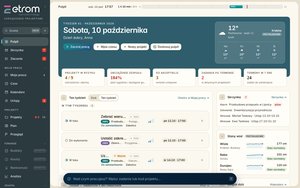
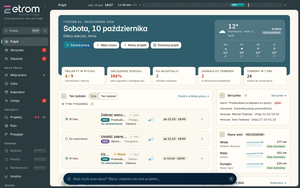
ETROM jako pierwszy i domyślny styl; panel boczny i pasek górny jako jedna ramka we wszystkich stylach
Claude-Session: https://claude.ai/code/session_01K4hy1AbaUhrYWgauQ4MMbV

diff --git a/styles/aurora.css b/styles/aurora.css
@@ -64,22 +64,14 @@
 
 /* ---------- Tło okna i arkusz ---------- */
 body, .app { background: var(--au-bg); background-attachment: fixed; }
-.sheet {
-  background:
-    radial-gradient(52rem 15rem at 92% -5rem, light-dark(oklch(.82 calc(.09 * var(--k)) var(--au-h1) / .24), oklch(.5 calc(.14 * var(--k)) var(--au-h1) / .16)), transparent 70%),
-    radial-gradient(40rem 14rem at 4% -4rem, light-dark(oklch(.84 calc(.07 * var(--k)) var(--au-h2) / .22), oklch(.5 calc(.13 * var(--k)) var(--au-h2) / .15)), transparent 70%),
-    var(--sheet);
-}
 
 /* ---------- Panel boczny ---------- */
-.sidebar {
+.sidebar, .topbar {
   --ink: #fff; --ink-2: rgb(255 255 255 / .88); --ink-3: rgb(255 255 255 / .66); --ink-4: rgb(255 255 255 / .48);
   --sheet: oklch(1 0 0 / .15); --hover: oklch(1 0 0 / .09); --wash: oklch(1 0 0 / .08); --line: oklch(1 0 0 / .16); --line-strong: oklch(1 0 0 / .3);
   --alarm-ink: oklch(.8 .16 25); --warn-ink: oklch(.86 .15 85);
   --elev-lift: inset 0 1px 0 rgb(255 255 255 / .28), 0 8px 18px -8px rgb(0 0 0 / .6);
   color: #fff;
-  /* spokojna, głęboka kolumna: plama aurory z tła nie prześwituje przez logo i wyszukiwarkę */
-  background: linear-gradient(180deg, oklch(.2 calc(.055 * var(--k)) var(--au-bh) / .9), oklch(.145 calc(.045 * var(--k)) var(--au-bh) / .94));
 }
 .sidebar .nav__item[aria-current="page"] {
   background: oklch(1 0 0 / .13);
@@ -110,7 +102,7 @@ body, .app { background: var(--au-bg); background-attachment: fixed; }
     radial-gradient(44rem 26rem at 105% -8%, light-dark(oklch(.88 calc(.08 * var(--k)) var(--au-h3) / .6), oklch(.55 calc(.13 * var(--k)) var(--au-h3) / .4)), transparent 62%),
     var(--au-base);
 }
-:root:is([data-palette="sky"],[data-palette="mint"],[data-palette="peach"],[data-palette="lilac"],[data-palette="rose"]) .sidebar {
+:root:is([data-palette="sky"],[data-palette="mint"],[data-palette="peach"],[data-palette="lilac"],[data-palette="rose"]) :is(.sidebar, .topbar) {
   --ink: light-dark(oklch(.27 .05 var(--au-bh)), #fff); --ink-2: light-dark(oklch(.36 .05 var(--au-bh)), rgb(255 255 255 / .88));
   --ink-3: light-dark(oklch(.45 .045 var(--au-bh)), rgb(255 255 255 / .66)); --ink-4: light-dark(oklch(.55 .04 var(--au-bh)), rgb(255 255 255 / .48));
   --sheet: light-dark(oklch(1 0 0 / .7), oklch(1 0 0 / .15)); --hover: light-dark(oklch(1 0 0 / .6), oklch(1 0 0 / .09)); --wash: light-dark(oklch(1 0 0 / .5), oklch(1 0 0 / .08));
@@ -118,8 +110,8 @@ body, .app { background: var(--au-bg); background-attachment: fixed; }
   --alarm-ink: light-dark(oklch(.5 .2 25), oklch(.8 .16 25)); --warn-ink: light-dark(oklch(.5 .13 70), oklch(.86 .15 85));
   --elev-lift: 0 1px 2px oklch(.3 .05 var(--au-bh) / .14);
   color: light-dark(oklch(.27 .05 var(--au-bh)), #fff);
-  background: linear-gradient(180deg, light-dark(oklch(1 0 0 / .62), oklch(.2 calc(.055 * var(--k)) var(--au-bh) / .9)), light-dark(oklch(1 0 0 / .4), oklch(.145 calc(.045 * var(--k)) var(--au-bh) / .94)));
 }
+:root:is([data-palette="sky"],[data-palette="mint"],[data-palette="peach"],[data-palette="lilac"],[data-palette="rose"]) { --frame: linear-gradient(180deg, light-dark(oklch(1 0 0 / .62), oklch(.2 calc(.055 * var(--k)) var(--au-bh) / .9)), light-dark(oklch(1 0 0 / .4), oklch(.145 calc(.045 * var(--k)) var(--au-bh) / .94))); }
 :root:is([data-palette="sky"],[data-palette="mint"],[data-palette="peach"],[data-palette="lilac"],[data-palette="rose"]) .sidebar .nav__item[aria-current="page"],
 :root:is([data-palette="sky"],[data-palette="mint"],[data-palette="peach"],[data-palette="lilac"],[data-palette="rose"]) .sidebar .nav__item--project[aria-current="page"] {
   background: light-dark(oklch(1 0 0 / .9), oklch(1 0 0 / .13));
@@ -143,6 +135,24 @@ body, .app { background: var(--au-bg); background-attachment: fixed; }
     light-dark(oklch(calc(.5 - .04 * var(--ctr)) calc(.14 * var(--k)) var(--au-h2)), oklch(calc(.2 - .03 * var(--ctr)) calc(.05 * var(--k)) var(--au-bh)));
 }
 @media (max-width: 56rem) { .sidebar, :root:is([data-palette="sky"],[data-palette="mint"],[data-palette="peach"],[data-palette="lilac"],[data-palette="rose"]) .sidebar { background: var(--au-bg); } }
+
+/* ---------- Ramka: panel boczny i pasek górny to jedna powierzchnia ----------
+   --frame maluje tło całego okna (panel, pasek górny i wąskie marginesy); arkusz treści leży na niej jako zaokrąglona karta. */
+:root { --frame: linear-gradient(180deg, oklch(.2 calc(.055 * var(--k)) var(--au-bh) / .9), oklch(.145 calc(.045 * var(--k)) var(--au-bh) / .94)); }
+.app { background: var(--frame), var(--au-bg); background-attachment: fixed; }
+.sidebar { background: none; }
+.topbar { background: none; box-shadow: none; }
+.sheet { background: none; box-shadow: none; margin: 0 var(--space-2) var(--space-2) 0; border-radius: 0; }
+.sheet.is-scrolled .topbar { box-shadow: none; }
+.sheet__scroll {
+  border-radius: var(--radius-lg);
+  box-shadow: var(--elev-sheet);
+  background:
+    radial-gradient(52rem 15rem at 92% -5rem, light-dark(oklch(.82 calc(.09 * var(--k)) var(--au-h1) / .24), oklch(.5 calc(.14 * var(--k)) var(--au-h1) / .16)), transparent 70%),
+    radial-gradient(40rem 14rem at 4% -4rem, light-dark(oklch(.84 calc(.07 * var(--k)) var(--au-h2) / .22), oklch(.5 calc(.13 * var(--k)) var(--au-h2) / .15)), transparent 70%),
+    var(--sheet);
+}
+.topbar { --topbar-ink: #fff; }
 
 /* ---------- Przyciski, karty, zakładki ---------- */
 .btn--primary { background: var(--grad-aurora); color: #fff; box-shadow: inset 0 1px 0 rgb(255 255 255 / var(--hl)), inset 0 -1px 0 rgb(0 0 0 / .18), 0 10px 22px -10px oklch(.5 calc(.13 * var(--k)) var(--au-h2) / calc(.7 * var(--hdr))); }

diff --git a/tests/browser/smoke.js b/tests/browser/smoke.js
@@ -578,6 +578,10 @@ async function main() {
     const gridCheck = await evaluate('var c = document.querySelectorAll(".pcard"); return { cols: getComputedStyle(document.querySelector(".pcard-grid")).gridTemplateColumns.split(" ").length, w0: c[0].getBoundingClientRect().width, vw: document.documentElement.clientWidth };');
     check('widok kart: kafle układają się w kolumny (nie jeden na całą szerokość)', gridCheck.cols >= 2 && gridCheck.w0 < gridCheck.vw * 0.6, JSON.stringify(gridCheck));
 
+    check('domyślny styl to ETROM: jasny schemat i ciemny panel boczny; dalsze testy motywów działają w stylu Aurora',
+      await evaluate('return document.documentElement.getAttribute("data-look") === "etrom" && document.documentElement.getAttribute("data-theme") === "light" && window.ETROM.Prefs.LOOKS[0].value === "etrom";'));
+    await evaluate('window.ETROM.app.actions.setPref({ look: "aurora" }); return true;');
+    await sleep(200);
     await click('#action-settings');
     await sleep(150);
     await evaluate('document.querySelector(\'.settings .segmented__btn[data-value="dark"]\').click(); return true;');
@@ -2219,7 +2223,7 @@ async function main() {
     await click('[data-fk="look-style-etrom"]');
     await sleep(300);
     check('styl ETROM: jasne pole pracy, ciemny panel boczny z dużym logo i podpisem, wymuszony jasny schemat',
-      (await state('s.prefs.look')) === 'etrom' && await evaluate('const sb = document.querySelector(".sidebar"); const lg = document.querySelector(".workspace .logo"); return document.documentElement.getAttribute("data-look") === "etrom" && document.documentElement.getAttribute("data-theme") === "light" && getComputedStyle(document.querySelector(".sheet")).backgroundColor === "rgb(255, 255, 255)" && /rgb\\(16, 20, 23\\)/.test(getComputedStyle(sb).backgroundImage) && lg.getBoundingClientRect().height >= 48 && !!document.querySelector(".brand-tag");'));
+      (await state('s.prefs.look')) === 'etrom' && await evaluate('const sb = document.querySelector(".sidebar"); const lg = document.querySelector(".workspace .logo"); return document.documentElement.getAttribute("data-look") === "etrom" && document.documentElement.getAttribute("data-theme") === "light" && getComputedStyle(document.querySelector(".sheet__scroll")).backgroundColor === "rgb(255, 255, 255)" && /rgb\\(16, 20, 23\\)/.test(getComputedStyle(document.querySelector(".app")).backgroundImage) && lg.getBoundingClientRect().height >= 48 && !!document.querySelector(".brand-tag");'));
     await click('[data-fk="look-style-oled"]');
     await sleep(300);
     check('styl OLED Black: czarne tło, wymuszony ciemny schemat, palety wyłączone',
@@ -2233,7 +2237,7 @@ async function main() {
     await click('[data-fk="look-style-paper"]');
     await sleep(300);
     check('styl Papier: wymuszony jasny schemat, ciepłe tło arkusza i matowy nagłówek ekranu',
-      await evaluate('return document.documentElement.getAttribute("data-theme") === "light" && getComputedStyle(document.querySelector(".sheet")).backgroundColor === "rgb(251, 248, 240)" && getComputedStyle(document.querySelector("#view-settings .page-header")).backgroundColor === "rgb(47, 93, 107)";'));
+      await evaluate('return document.documentElement.getAttribute("data-theme") === "light" && getComputedStyle(document.querySelector(".sheet__scroll")).backgroundColor === "rgb(251, 248, 240)" && getComputedStyle(document.querySelector("#view-settings .page-header")).backgroundColor === "rgb(47, 93, 107)";'));
     await click('[data-fk="look-style-aurora"]');
     await sleep(300);
     check('powrót do stylu Aurora zdejmuje atrybut stylu, a schemat wraca do wyboru z Motywu (tu: ciemny)',

diff --git a/styles/looks.css b/styles/looks.css
@@ -15,16 +15,17 @@ html[data-look="etrom"] {
   --ink: #0b0d0f; --ink-2: #323d44; --ink-3: #566873;
   --brand: #dc5799; --au-bg: #f3f5f6; --au-base: #f3f5f6;
 }
-html[data-look="etrom"] .sidebar {
+html[data-look="etrom"] { --frame: linear-gradient(180deg, #101417, #080a0c); }
+html[data-look="etrom"] :is(.sidebar, .topbar) {
   --ink: #fff; --ink-2: #e6ecef; --ink-3: #aab9c1; --ink-4: #8195a0;
   --line: #2a3238; --line-strong: #3a444c; --hover: #1d252b; --pressed: #26313a; --wash: #161d22; --wash-2: #1f282e; --raised: #1f282e; --sheet: #161d22;
-  background: linear-gradient(180deg, #101417, #080a0c); box-shadow: none; color: #fff;
+  box-shadow: none; color: #fff;
 }
 html[data-look="etrom"] .sidebar .logo__ink { background-color: #fff; }
 html[data-look="etrom"] .sidebar .workspace { border-bottom: 3px solid var(--brand); background: rgb(255 255 255 / .04); border-radius: 0; }
 html[data-look="etrom"] .sidebar .workspace:hover { background: rgb(255 255 255 / .08); }
 html[data-look="etrom"] .sidebar .nav__item[aria-current="page"] { background: rgb(255 255 255 / .09); box-shadow: inset 3px 0 0 var(--brand); }
-html[data-look="etrom"] .sheet { background: #fff; box-shadow: inset 0 0 0 1px #dbe2e6; }
+html[data-look="etrom"] .sheet__scroll { background: #fff; box-shadow: none; }
 html[data-look="etrom"] .db-hero, html[data-look="etrom"] .page-header {
   position: relative; overflow: hidden; color: #fff; box-shadow: none;
   background: radial-gradient(34rem 16rem at 100% 0%, rgb(220 87 153 / .5), transparent 70%), linear-gradient(115deg, #1a2126, #0e1215);
@@ -46,9 +47,10 @@ html[data-look="oled"] {
   --canvas: #000; --sheet: #000; --raised: #0c0c0e; --wash: #08090a; --wash-2: #111214; --hover: #101113; --pressed: #18191c;
   --line: #1a1b1e; --line-strong: #2a2c30; --au-bg: #000; --au-base: #000;
 }
-html[data-look="oled"] body, html[data-look="oled"] .app { background: #000; }
-html[data-look="oled"] .sidebar { background: #000; box-shadow: inset -1px 0 0 #17181a; }
-html[data-look="oled"] .sheet { background: #000; box-shadow: inset 0 0 0 1px #17181a; }
+html[data-look="oled"] body { background: #000; }
+html[data-look="oled"] { --frame: linear-gradient(#000, #000); }
+html[data-look="oled"] .sidebar { box-shadow: inset -1px 0 0 #17181a; }
+html[data-look="oled"] .sheet__scroll { background: #000; box-shadow: inset 0 0 0 1px #17181a; }
 html[data-look="oled"] .db-hero {
   background: radial-gradient(60% 120% at 100% 0%, oklch(.45 calc(.15 * var(--k)) var(--au-h1) / .55), transparent 70%), #000;
   box-shadow: inset 0 0 0 1px oklch(.7 calc(.14 * var(--k)) var(--au-h1) / .55), 0 0 calc(48px * var(--hdr)) -10px oklch(.65 calc(.16 * var(--k)) var(--au-h1) / .55);
@@ -124,8 +126,8 @@ html[data-look="paper"] {
   --flow: #2f6f86; --flow-ink: #245a6d; --flow-wash: #e1eef1; --brand: #c4457f; --warn: #a56000;
   --au-bg: #e7dfcf; --au-base: #e7dfcf; --hdr: 0;
 }
-html[data-look="paper"] .sidebar { background: #2b3a3f; box-shadow: none; }
-html[data-look="paper"] .sheet { background: #fbf8f0; box-shadow: 0 1px 0 #d6ccb4, 0 0 0 1px #d9cfb8; }
+html[data-look="paper"] { --frame: linear-gradient(#2b3a3f, #2b3a3f); }
+html[data-look="paper"] .sheet__scroll { background: #fbf8f0; box-shadow: 0 0 0 1px #d9cfb8; }
 html[data-look="paper"] .db-hero { background: #2f5d6b; box-shadow: none; }
 html[data-look="paper"] .db-tile, html[data-look="paper"] .db-card { background: #fffdf8; box-shadow: inset 0 0 0 1px #e1d8c3; }
 html[data-look="paper"] .db-tile__v, html[data-look="paper"] .ts-stat__v { font-family: Georgia, 'Times New Roman', serif; }

diff --git a/tests/prefs.test.js b/tests/prefs.test.js
@@ -13,7 +13,7 @@ function fakeBackend(initial) {
   };
 }
 
-const BASE = { theme: 'system', view: 'list', accent: 'standard', hiddenColumns: [], groupBy: 'none', density: 'comfortable', taskView: 'list', detailsOpen: true, projectView: 'all', customViews: [], sidebarCollapsed: false, railCollapsed: false, collapsedRails: ['time', 'mywork', 'mycases', 'feed'], palette: 'ocean', look: 'aurora', oledGuard: false, hdr: true, tilesFull: false, colorBy: 'number', vivid: 100, contrast: 50, dayTarget: 480, dayEnd: '17:00', pinned: [], recent: [], me: null, snoozed: {}, progressMethod: 'auto', workingWeight: 50, forecastWarn: 10, forecastAlarm: 25, reservePct: 15, minProgress: 10, hourlyCost: 0, cal: { view: 'month', scope: '', hiddenPeople: [], hiddenProjects: [], hiddenKinds: [], rail: 'none', layer: 'all' }, dash: { tiles: [], collapsed: [] } };
+const BASE = { theme: 'system', view: 'list', accent: 'standard', hiddenColumns: [], groupBy: 'none', density: 'comfortable', taskView: 'list', detailsOpen: true, projectView: 'all', customViews: [], sidebarCollapsed: false, railCollapsed: false, collapsedRails: ['time', 'mywork', 'mycases', 'feed'], palette: 'ocean', look: 'etrom', oledGuard: false, hdr: true, tilesFull: false, colorBy: 'number', vivid: 100, contrast: 50, dayTarget: 480, dayEnd: '17:00', pinned: [], recent: [], me: null, snoozed: {}, progressMethod: 'auto', workingWeight: 50, forecastWarn: 10, forecastAlarm: 25, reservePct: 15, minProgress: 10, hourlyCost: 0, cal: { view: 'month', scope: '', hiddenPeople: [], hiddenProjects: [], hiddenKinds: [], rail: 'none', layer: 'all' }, dash: { tiles: [], collapsed: [] } };
 const withBase = (patch) => Object.assign({}, BASE, patch);
 
 test('domyślnie motyw idzie za systemem, a projekty pokazują się jako lista', () => {
@@ -190,13 +190,14 @@ test('ustawienia pulpitu: tylko poprawne identyfikatory, bez duplikatów, z limi
   assert.deepEqual(Prefs.normalize({ dash: 'zepsute' }).dash, { tiles: [], collapsed: [] });
 });
 
-test('styl wyglądu: znane style przechodzą, reszta wraca do Aurory; schemat wymuszają ETROM, OLED, Filmowy i Papier', () => {
-  assert.equal(Prefs.normalize({}).look, 'aurora');
+test('styl wyglądu: znane style przechodzą, reszta wraca do ETROM; schemat wymuszają ETROM, OLED, Filmowy i Papier', () => {
+  assert.equal(Prefs.normalize({}).look, 'etrom');
+  assert.equal(Prefs.normalize({ look: 'aurora' }).look, 'aurora');
   assert.equal(Prefs.normalize({ look: 'oled' }).look, 'oled');
   assert.equal(Prefs.normalize({ look: 'etrom' }).look, 'etrom');
   assert.equal(Prefs.normalize({ look: 'cinema' }).look, 'cinema');
   assert.equal(Prefs.normalize({ look: 'paper' }).look, 'paper');
-  assert.equal(Prefs.normalize({ look: 'neon' }).look, 'aurora');
+  assert.equal(Prefs.normalize({ look: 'neon' }).look, 'etrom');
   assert.equal(Prefs.schemeOf('oled'), 'dark');
   assert.equal(Prefs.schemeOf('cinema'), 'dark');
   assert.equal(Prefs.schemeOf('paper'), 'light');
@@ -204,7 +205,7 @@ test('styl wyglądu: znane style przechodzą, reszta wraca do Aurory; schemat wy
   assert.equal(Prefs.PALETTES.length, 12);
   assert.equal(Prefs.ACCENTS.length, 12);
   assert.equal(Prefs.schemeOf('aurora'), null);
-  assert.deepEqual(Prefs.LOOKS.map((l) => l.value), ['aurora', 'etrom', 'oled', 'cinema', 'paper']);
+  assert.deepEqual(Prefs.LOOKS.map((l) => l.value), ['etrom', 'aurora', 'oled', 'cinema', 'paper']);
 });
 
 test('ochrona OLED: tylko true ją włącza', () => {

diff --git a/src/core/prefs.js b/src/core/prefs.js
@@ -13,8 +13,8 @@
   // Style całego wyglądu (Ustawienia → Wygląd). Aurora to dotychczasowy, z paletami; pozostałe mają własny charakter.
   // scheme: styl wymusza jasny/ciemny schemat (OLED i Filmowy są ciemne, Papier jasny); null = decyduje Motyw.
   var LOOKS = [
-    { value: 'aurora', label: 'Aurora', hint: 'domyślny, z paletami', scheme: null },
-    { value: 'etrom', label: 'ETROM', hint: 'marka: ciemny pasek, jasne tło', scheme: 'light' },
+    { value: 'etrom', label: 'ETROM', hint: 'domyślny: barwy marki', scheme: 'light' },
+    { value: 'aurora', label: 'Aurora', hint: 'z paletami kolorów', scheme: null },
     { value: 'oled', label: 'OLED Black', hint: 'czerń na ekrany OLED', scheme: 'dark' },
     { value: 'cinema', label: 'Filmowy', hint: 'kino i prezentacje', scheme: 'dark' },
     { value: 'paper', label: 'Papier', hint: 'jasny, matowy', scheme: 'light' }
@@ -114,7 +114,7 @@
     // Lista jest domyślna: przy dziesiątkach projektów skanuje się ją szybciej niż karty.
     return {
       theme: 'system', view: 'list', accent: 'standard', hiddenColumns: [],
-      groupBy: 'none', density: 'comfortable', taskView: 'list', detailsOpen: true, projectView: 'all', customViews: [], sidebarCollapsed: false, railCollapsed: false, collapsedRails: ['time', 'mywork', 'mycases', 'feed'], palette: 'ocean', look: 'aurora', oledGuard: false, hdr: true, tilesFull: false, colorBy: 'number', vivid: 100, contrast: 50, dayTarget: 480, dayEnd: '17:00', pinned: [], recent: [], me: null, snoozed: {}, progressMethod: 'auto', workingWeight: 50, forecastWarn: 10, forecastAlarm: 25, reservePct: 15, minProgress: 10, hourlyCost: 0,
+      groupBy: 'none', density: 'comfortable', taskView: 'list', detailsOpen: true, projectView: 'all', customViews: [], sidebarCollapsed: false, railCollapsed: false, collapsedRails: ['time', 'mywork', 'mycases', 'feed'], palette: 'ocean', look: 'etrom', oledGuard: false, hdr: true, tilesFull: false, colorBy: 'number', vivid: 100, contrast: 50, dayTarget: 480, dayEnd: '17:00', pinned: [], recent: [], me: null, snoozed: {}, progressMethod: 'auto', workingWeight: 50, forecastWarn: 10, forecastAlarm: 25, reservePct: 15, minProgress: 10, hourlyCost: 0,
       cal: cleanCal(null), dash: cleanDash(null)
     };
   }
@@ -160,7 +160,7 @@
       railCollapsed: source.railCollapsed === true,
       collapsedRails: (Array.isArray(source.collapsedRails) ? source.collapsedRails : ['time', 'mywork', 'mycases', 'feed']).filter(function (id, i, a) { return typeof id === 'string' && /^[a-z-]{1,24}$/.test(id) && a.indexOf(id) === i; }).slice(0, 12),
       palette: PALETTES.indexOf(source.palette) >= 0 ? source.palette : 'ocean',
-      look: LOOK_IDS.indexOf(source.look) >= 0 ? source.look : 'aurora',
+      look: LOOK_IDS.indexOf(source.look) >= 0 ? source.look : 'etrom',
       oledGuard: source.oledGuard === true,
       hdr: source.hdr !== false,
       tilesFull: source.tilesFull === true,

diff --git a/src/ui/settingsScreen.js b/src/ui/settingsScreen.js
@@ -20,7 +20,7 @@
   ];
   var DEFAULT_SECTION = 'look';
 
-  var LOOK_DEFAULTS = { look: 'aurora', oledGuard: false, palette: 'ocean', hdr: true, tilesFull: false, colorBy: 'number', vivid: 100, contrast: 50 };
+  var LOOK_DEFAULTS = { look: 'etrom', oledGuard: false, palette: 'ocean', hdr: true, tilesFull: false, colorBy: 'number', vivid: 100, contrast: 50 };
 
   function sectionsFor(management) {
     return SECTIONS.filter(function (s) { return !s.management || management; });
@@ -63,7 +63,7 @@
   function lookSection(state, ctx) {
     var a = ctx.actions;
     var prefs = state.prefs;
-    var style = prefs.look || 'aurora';
+    var style = prefs.look || 'etrom';
     var forced = Prefs.schemeOf(style);
     var shell = E.Shell;
 

diff --git a/src/ui/shell.js b/src/ui/shell.js
@@ -46,7 +46,7 @@
     { value: 'lilac', label: 'Lawenda (jasny)', a: 'oklch(.9 .07 312)', b: 'oklch(.6 .14 282)' },
     { value: 'rose', label: 'Róża (jasny)', a: 'oklch(.9 .07 5)', b: 'oklch(.64 .16 345)' }
   ];
-  var LOOK_DEFAULTS = { look: 'aurora', oledGuard: false, palette: 'ocean', hdr: true, tilesFull: false, colorBy: 'number', vivid: 100, contrast: 50 };
+  var LOOK_DEFAULTS = { look: 'etrom', oledGuard: false, palette: 'ocean', hdr: true, tilesFull: false, colorBy: 'number', vivid: 100, contrast: 50 };
 
   /** Logo ETROM: warstwa barwna + napis w kolorze tekstu (działa w obu motywach). */
   function logo(markOnly) {

diff --git a/src/ui/app.js b/src/ui/app.js
@@ -2764,7 +2764,7 @@
   /** Wygląd: paleta, HDR, intensywność i kontrast jako atrybuty i zmienne CSS (podgląd na żywo bez zapisu). */
   function applyLook(look) {
     var el = document.documentElement;
-    var style = look.look || 'aurora';
+    var style = look.look || 'etrom';
     if (style === 'aurora') el.removeAttribute('data-look');
     else el.setAttribute('data-look', style);
     // Palety należą do Aurory; inne style mają własną kolorystykę.

diff --git a/README.md b/README.md
@@ -48,7 +48,7 @@ Później ta sama czynność, kopia zapasowa i usuwanie danych są w menu
   i projektu (Spacja na wierszu) bez opuszczania bieżącego widoku,
 - **zespół z obciążeniem**: otwarte zadania każdej osoby i jej funkcje w projektach; zarząd widzi dodatkowo obciążenie w procentach (średnia godzin z 4 tygodni wobec 40 h, pasek i godziny; przeciążenie, pełne obłożenie, wolna przepustowość),
 - **Ustawienia jako osobna strona** (`#/ustawienia`): sekcje Wygląd, Czas pracy, Skróty, Budżet i postęp (profile Zalecany, Ostrożny, Luźny i podgląd skutków progów), Kalendarz i urlopy (kierownictwo), Kopia zapasowa i dane,
-- **style wyglądu**: Aurora (domyślny, z 12 paletami), ETROM (barwy marki: ciemny pasek, jasne pole pracy, róż i łupek z logo), OLED Black (czerń, opcjonalna ochrona przed wypaleniem), Filmowy (pasy kinowe, winieta, ziarno) i Papier (jasny, matowy); OLED i Filmowy są ciemne, Papier jasny, a Aurora słucha Motywu,
+- **style wyglądu**: ETROM (domyślny; barwy marki: ciemny pasek, jasne pole pracy, róż i łupek z logo), OLED Black (czerń, opcjonalna ochrona przed wypaleniem), Filmowy (pasy kinowe, winieta, ziarno) i Papier (jasny, matowy); OLED i Filmowy są ciemne, Papier jasny, a Aurora słucha Motywu,
 - panel boczny zwijany klawiszem `[`, projekty przypięte i ostatnio otwierane,
 - dodawanie, edycja i usuwanie projektu, z walidacją przy polach
   (kod projektu musi być niepowtarzalny),
@@ -179,7 +179,7 @@ Widok tylko czyta stan i rysuje.
 
 ```bash
 node --test tests/*.test.js     # 510 testów logiki i kontrastu barw, bez przeglądarki
-node tests/browser/smoke.js     # 461 sprawdzeń w Chromium, na adresie file://, z prawdziwą klawiaturą
+node tests/browser/smoke.js     # 462 sprawdzeń w Chromium, na adresie file://, z prawdziwą klawiaturą
 node tools/screenshot.js        # zrzuty: ekrany, motywy, 1440/1024/390 px, menu, panel, inspektor, 10 przypadków skrajnych miernika
 ```
 
